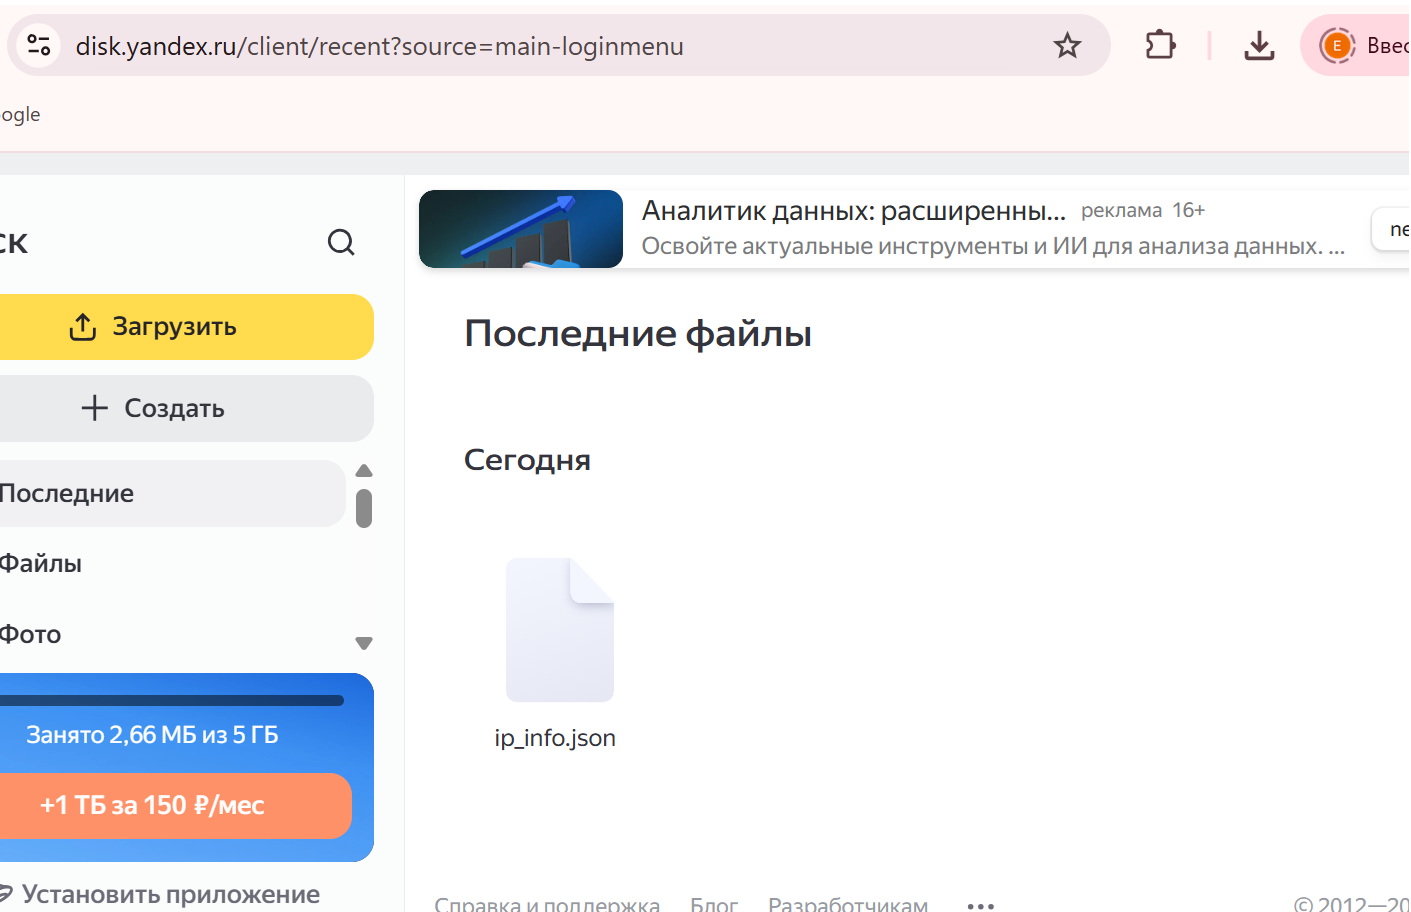
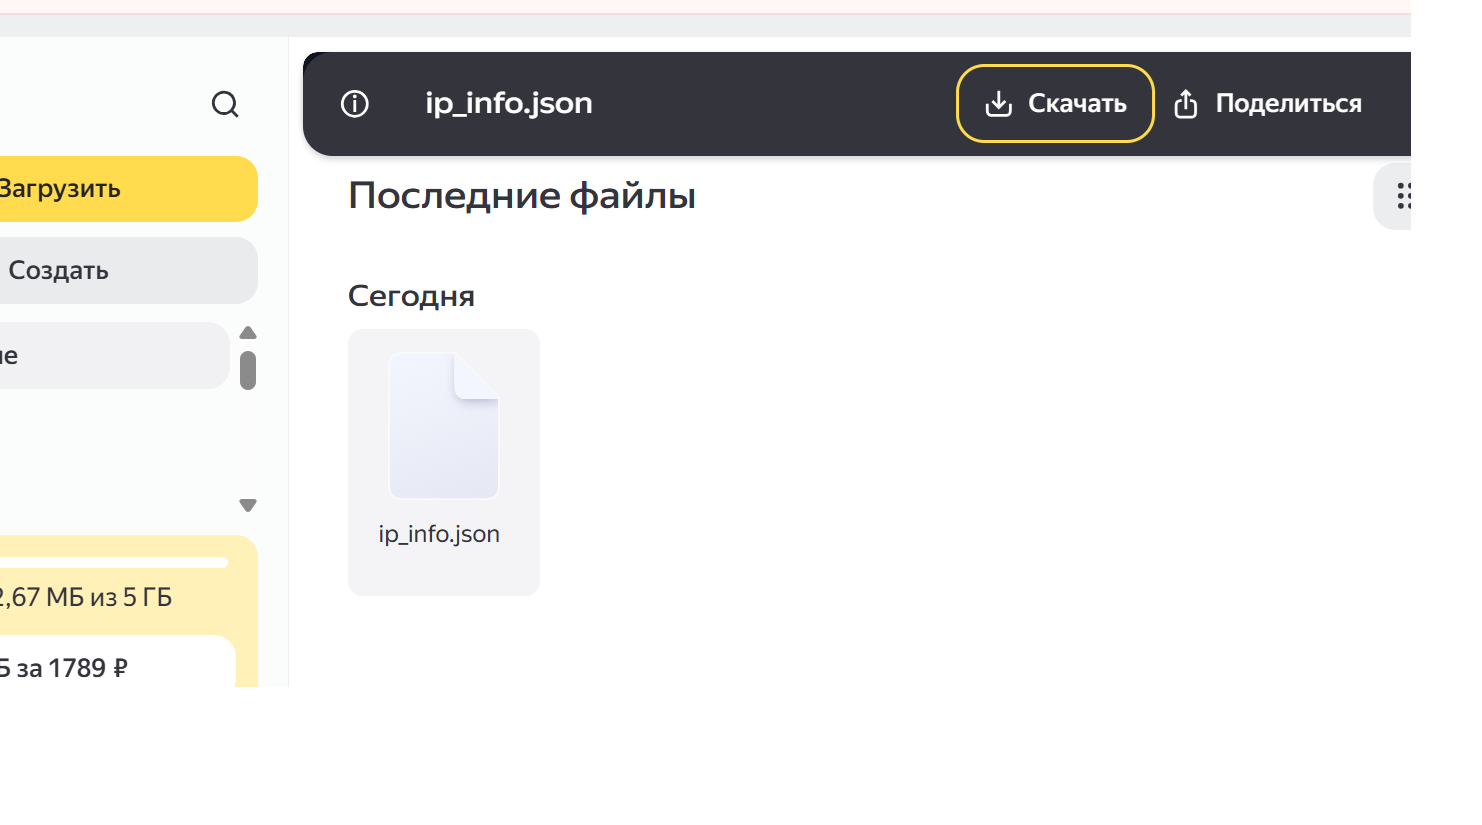
Apply expert recommendations

diff --git a/main.py b/main.py
@@ -1,7 +1,9 @@
+"""Get IP geolocation and upload it to Yandex Disk."""
+
+import io
 import json
-import tempfile
-from pathlib import Path
-from typing import Any
+import os
+from typing import Any, BinaryIO, Optional
 
 import requests
 
@@ -33,7 +35,11 @@ class IpInfoClient:
 
     API_URL = "https://ipinfo.io"
 
-    def __init__(self, token: str | None = None, timeout: int = 10) -> None:
+    def __init__(
+        self,
+        token: Optional[str] = None,
+        timeout: int = 10,
+    ) -> None:
         self.token = token
         self.timeout = timeout
 
@@ -76,12 +82,12 @@ class YandexDiskClient:
             response.raise_for_status()
 
     def upload_file(
-            self,
-            local_path: Path,
-            disk_path: str,
-            overwrite: bool = True,
+        self,
+        file_stream: BinaryIO,
+        disk_path: str,
+        overwrite: bool = True,
     ) -> None:
-        """Request an upload URL and upload a local file."""
+        """Request an upload URL and upload a stream from memory."""
         response = requests.get(
             f"{self.API_URL}/upload",
             headers=self.headers,
@@ -96,33 +102,27 @@ class YandexDiskClient:
         if not upload_url:
             raise ValueError("Яндекс.Диск не вернул ссылку для загрузки")
 
-        with local_path.open("rb") as file:
-            upload_response = requests.put(
-                upload_url,
-                data=file,
-                timeout=self.timeout,
-            )
+        file_stream.seek(0)
+        upload_response = requests.put(
+            upload_url,
+            data=file_stream,
+            timeout=self.timeout,
+        )
         upload_response.raise_for_status()
-
-
-def save_json(data: dict[str, Any], file_path: Path) -> None:
-    """Save a dictionary as readable UTF-8 JSON."""
-    with file_path.open("w", encoding="utf-8") as file:
-        json.dump(data, file, ensure_ascii=False, indent=2)
 
 
 def main() -> None:
     """Run the complete IP detection and upload workflow."""
-    yandex_token = input("Введите токен Яндекс.Диска: ").strip()
+    yandex_token = os.getenv("YANDEX_TOKEN")
     if not yandex_token:
-        print("Ошибка: токен Яндекс.Диска не введён")
+        print("Ошибка: переменная окружения YANDEX_TOKEN не задана")
         return
 
     folder_name = "ip_detector"
     file_name = "ip_info.json"
 
     ipify = IpifyClient()
-    ipinfo = IpInfoClient()
+    ipinfo = IpInfoClient(token=os.getenv("IPINFO_TOKEN"))
     yandex_disk = YandexDiskClient(token=yandex_token)
 
     try:
@@ -130,11 +130,15 @@ def main() -> None:
         geo_data = ipinfo.get_geo(ip_address)
 
         yandex_disk.create_folder(folder_name)
-        with tempfile.TemporaryDirectory() as temp_directory:
-            local_path = Path(temp_directory) / file_name
-            save_json(geo_data, local_path)
-            disk_path = f"{folder_name}/{file_name}"
-            yandex_disk.upload_file(local_path, disk_path)
+        json_bytes = json.dumps(
+            geo_data,
+            ensure_ascii=False,
+            indent=2,
+        ).encode("utf-8")
+        file_stream = io.BytesIO(json_bytes)
+
+        disk_path = f"{folder_name}/{file_name}"
+        yandex_disk.upload_file(file_stream, disk_path)
 
         print(f"Файл успешно загружен на Яндекс.Диск: {disk_path}")
     except (requests.RequestException, ValueError) as error:

diff --git a/readme.md b/readme.md
@@ -1,5 +1,11 @@
 # Результат работы
 
+В Windows PowerShell необходимо задать токен Яндекс.Диска:
+
+```powershell
+$env:YANDEX_TOKEN="ваш_токен"
+python main.py
+
 Программа успешно создала на Яндекс.Диске папку `ip_detector`
 и загрузила в неё файл `ip_info.json`.
 
